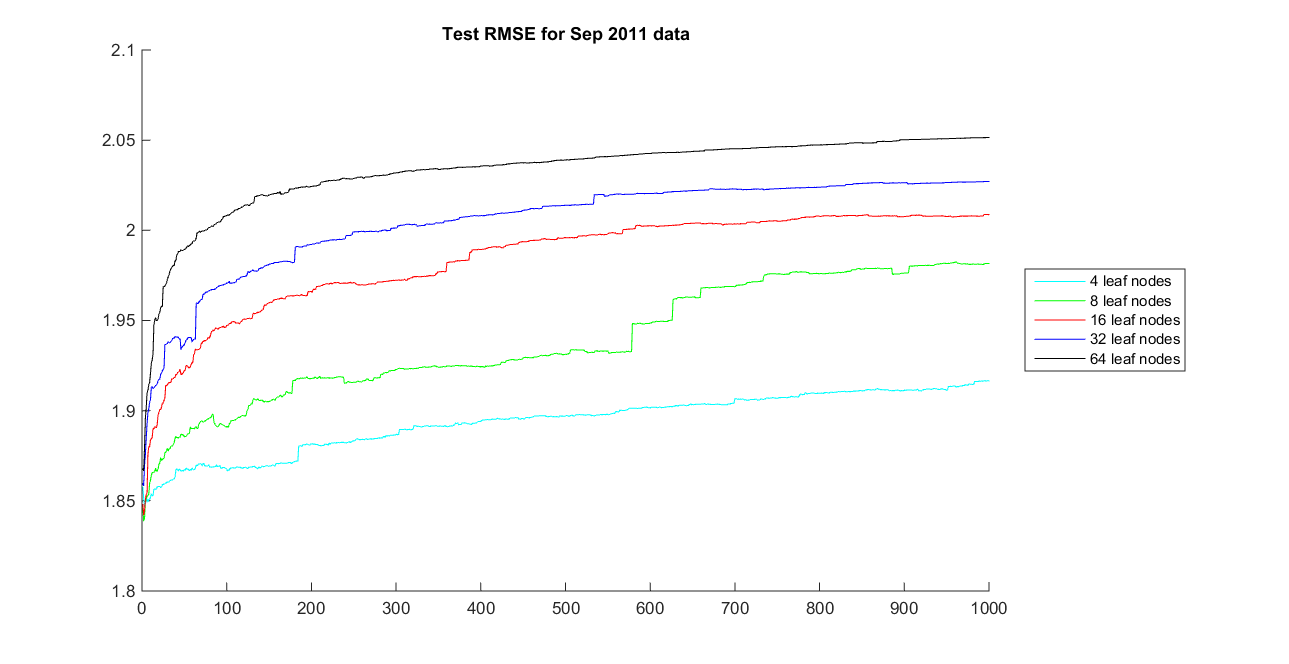
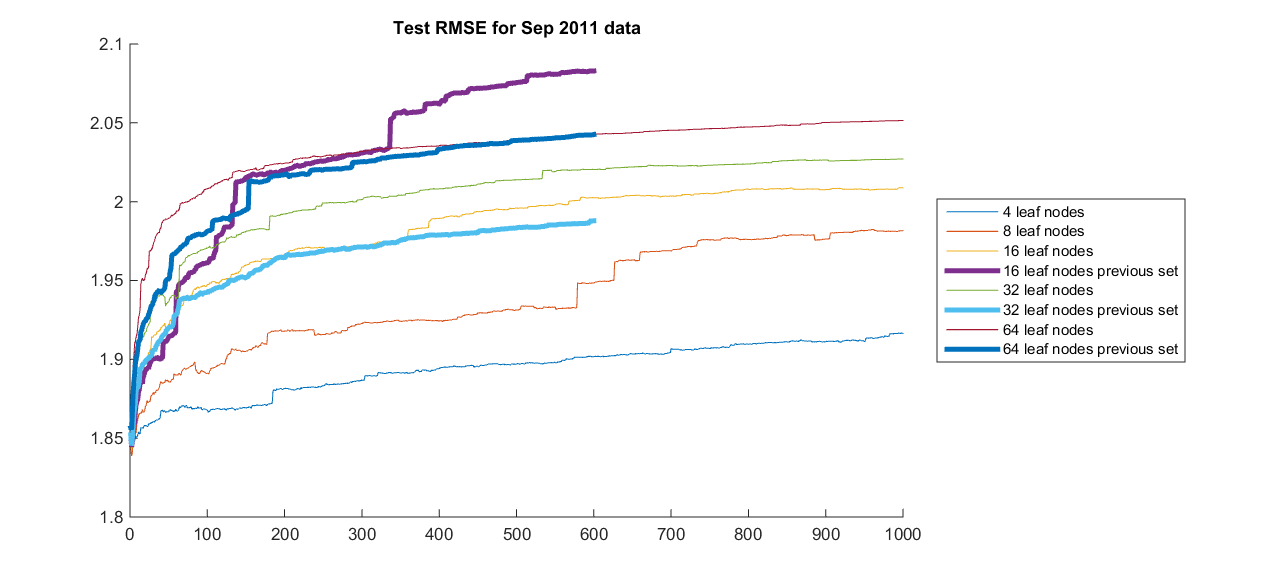
df

diff --git a/Sep2012_EMDCalc/TEST_approxBySampling.m b/Sep2012_EMDCalc/TEST_approxBySampling.m
@@ -1,8 +1,18 @@
-load('patchesSep2011Data_results_new1.mat');
-%load('patchesSep2011Data_results_allT_new1.mat');
+%load('patchesSep2011Data_results_new1.mat');
+%load('patchesSep2011Data_new1.mat');
+load('patchesSep2011Data_results_allT_new1.mat');
+load('patchesSep2011Data_allT_new1.mat');
 
 numPatches = size(predErrorsEMD,2);
 randPatches = randperm(numPatches);
+
+
+patchSum = zeros(1,numPatches);
+for k = 1:numPatches
+   curPatch = targetPatches{k};
+   patchSum(k) = sum(curPatch(:));
+end
+
 %%
 %numRandPatches = floor(numPatches*0.6);
 emd1Array = zeros(1,numPatches);
@@ -13,17 +23,19 @@ varemd1 = ones(1,numPatches);
 varemd2 = ones(1,numPatches);
 varemdOther = ones(1,numPatches);
 varemd2Other = ones(1,numPatches);
-numCompare = 100;
+numCompare = 400;
 minFlow = min(totalFlowEMD(:));
 for ii = 1:numPatches
     randPatchesUse = randPatches(1:ii);
     predErrorsSampled = predErrorsEMD(:,randPatchesUse);
     workSampled = totalWorkEMD(:,randPatchesUse);
     flowSampled = totalFlowEMD(:,randPatchesUse);
+    patchSumSampled = [patchSum(randPatchesUse);patchSum(randPatchesUse)];
     res = mean(predErrorsSampled,2);
-    res2 = mean(workSampled,2)./mean(flowSampled,2);
+    res2 = sum(workSampled,2)./sum(flowSampled,2);
     %res2 = sum(predErrorsSampled.*log(flowSampled/minFlow),2)./sum(log(flowSampled/minFlow),2);
-    
+    %res2 = sum(workSampled.*patchSumSampled,2)./sum(patchSumSampled,2);
+    %res2 = sum(workSampled.*flowSampled,2)./sum(patchSumSampled,2);
     emd1Array(ii) = res(1);
     emdOtherArray(ii) = res2(1);
     

diff --git a/VariousTrainingSets/testTreeOverSep2011.m b/VariousTrainingSets/testTreeOverSep2011.m
@@ -53,15 +53,26 @@ J16data = load('rmseValidationSep2011_J16rf9.mat');
 J32data = load('rmseValidationSep2011_J32rf9.mat');
 J64data = load('rmseValidationSep2011_J64rf9.mat');
 
+J16dataOther = load('rmseValidationSep2011_J16rf8_other.mat');
+J32dataOther = load('rmseValidationSep2011_J32rf8_other.mat');
+J64dataOther = load('rmseValidationSep2011_J64rf8_other.mat');
+
 figure
 hold on
-plot(J4data.rmseTestVals,'c-');
-plot(J8data.rmseTestVals,'g-');
-plot(J16data.rmseTestVals,'r-');
-plot(J32data.rmseTestVals,'b-');
-plot(J64data.rmseTestVals,'k-');
+plot(J4data.rmseTestVals);
+plot(J8data.rmseTestVals);
+plot(J16data.rmseTestVals);
+plot(J16dataOther.rmseTestVals,'LineWidth',3);
+plot(J32data.rmseTestVals);
+plot(J32dataOther.rmseTestVals,'LineWidth',3);
+plot(J64data.rmseTestVals);
+plot(J64dataOther.rmseTestVals,'LineWidth',3);
 legend('4 leaf nodes','8 leaf nodes','16 leaf nodes',...
-    '32 leaf nodes','64 leaf nodes',...
+    '16 leaf nodes previous set',...
+    '32 leaf nodes',...
+    '32 leaf nodes previous set',...
+    '64 leaf nodes',...
+    '64 leaf nodes previous set',...
     'Location','eastoutside');
 title('Test RMSE for Sep 2011 data');
 hold off

diff --git a/VariousTrainingSets/trainDifferentTrees.m b/VariousTrainingSets/trainDifferentTrees.m
@@ -35,9 +35,9 @@ for i = 3:totalTreesToTrain
         save(fileStr,'perfTrain','perfTest','boostStruct','boostArgs')
     end
 end
-%{
 
-Jvals = [4 8 16 32 64 128];
+%%
+Jvals = [4 8 16 32 64];
 testErrors = cell(1,length(Jvals));
 trainErrors = cell(1,length(Jvals));
 ii=1;
@@ -57,20 +57,19 @@ end
 
 figure
 hold on
-for ii = 1:6
+for ii = 1:5
     plot(testErrors{ii});
 end
-legend('J=4','J=8','J=16','J=32','J=64','J=128');
+legend('J=4','J=8','J=16','J=32','J=64');
 title('Validation Error vs. Number of Iterations');
 hold off
 
 figure
 hold on
-for ii = 1:6
+for ii = 1:5
     plot(trainErrors{ii});
 end
-legend('J=4','J=8','J=16','J=32','J=64','J=128');
+legend('J=4','J=8','J=16','J=32','J=64');
 title('Training Error vs. Number of Iterations');
 hold off
 
-%}
